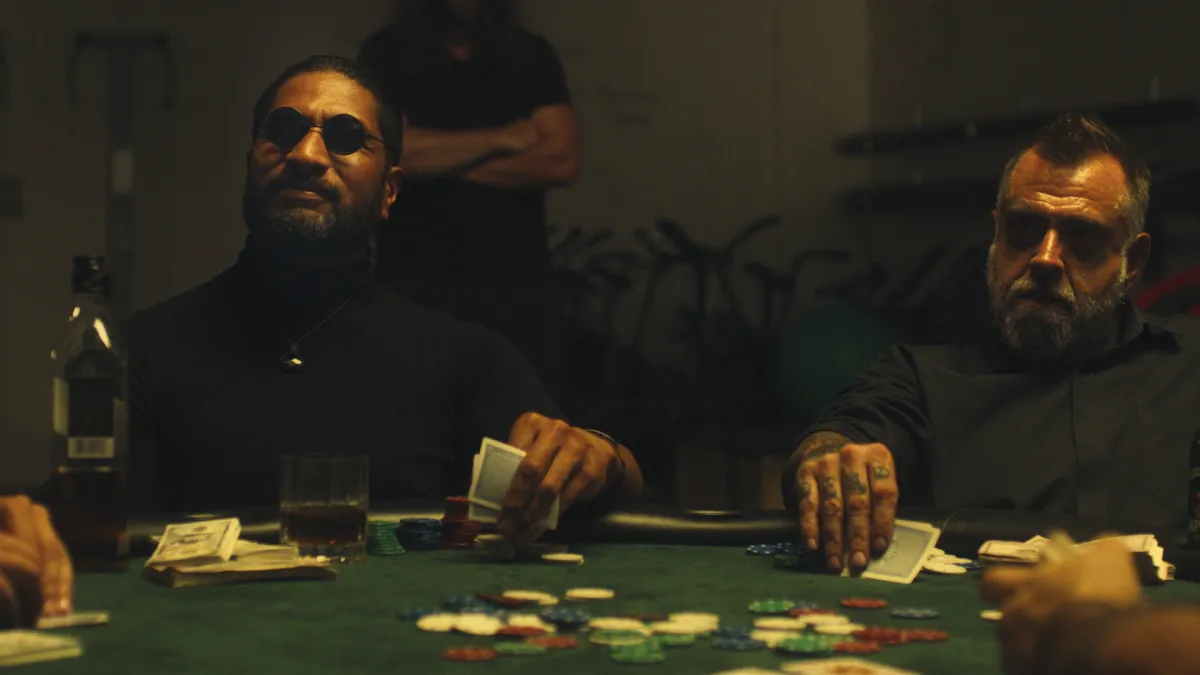
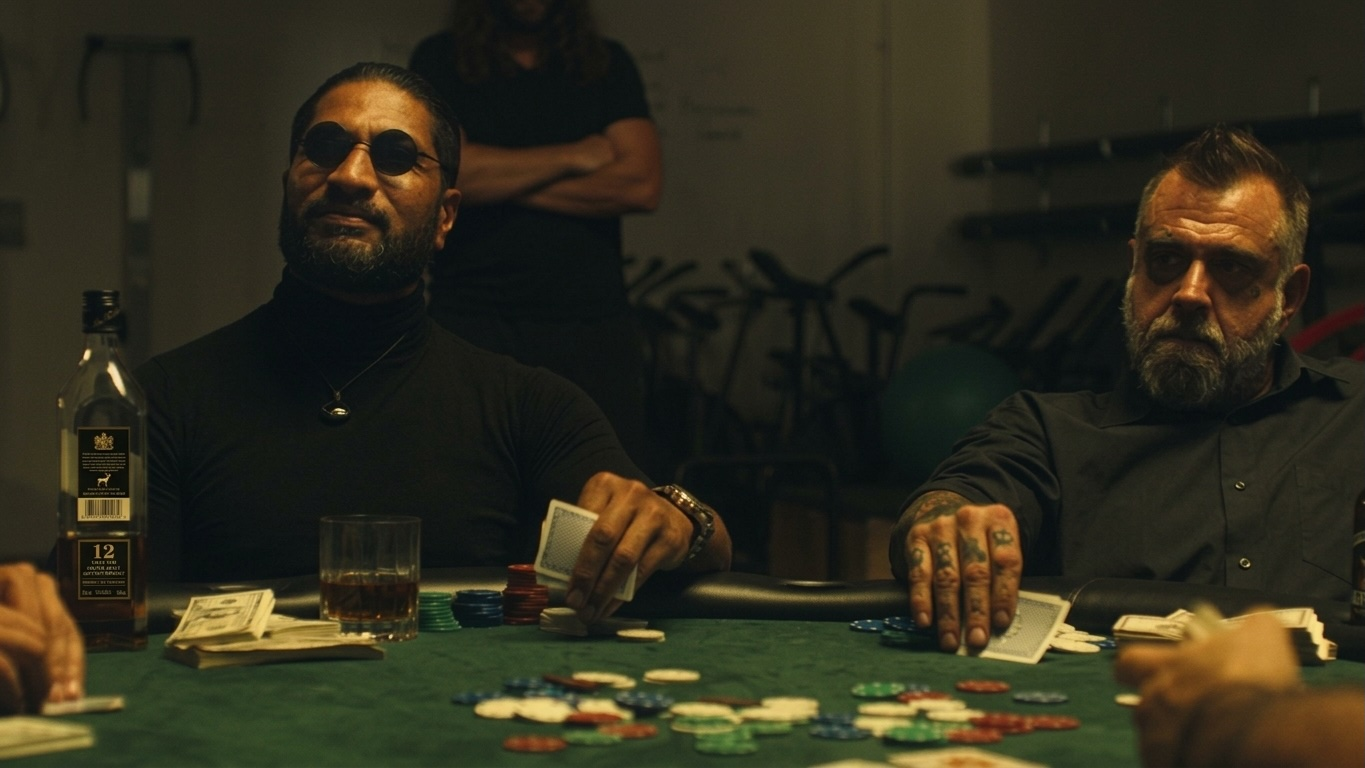
Fix cursor, hamburger close, and update project images
- Remove crosshair cursor site-wide, use default pointer on buttons
- Hamburger z-index 300 so it stays above the slide panel
- Animated X state on hamburger when menu is open
- Updated The Last Deal and Trinket Box images

diff --git a/src/styles/global.css b/src/styles/global.css
@@ -58,7 +58,6 @@
     font-weight: 400;
     -webkit-font-smoothing: antialiased;
     -moz-osx-font-smoothing: grayscale;
-    cursor: crosshair;
     overflow-x: hidden;
   }
 